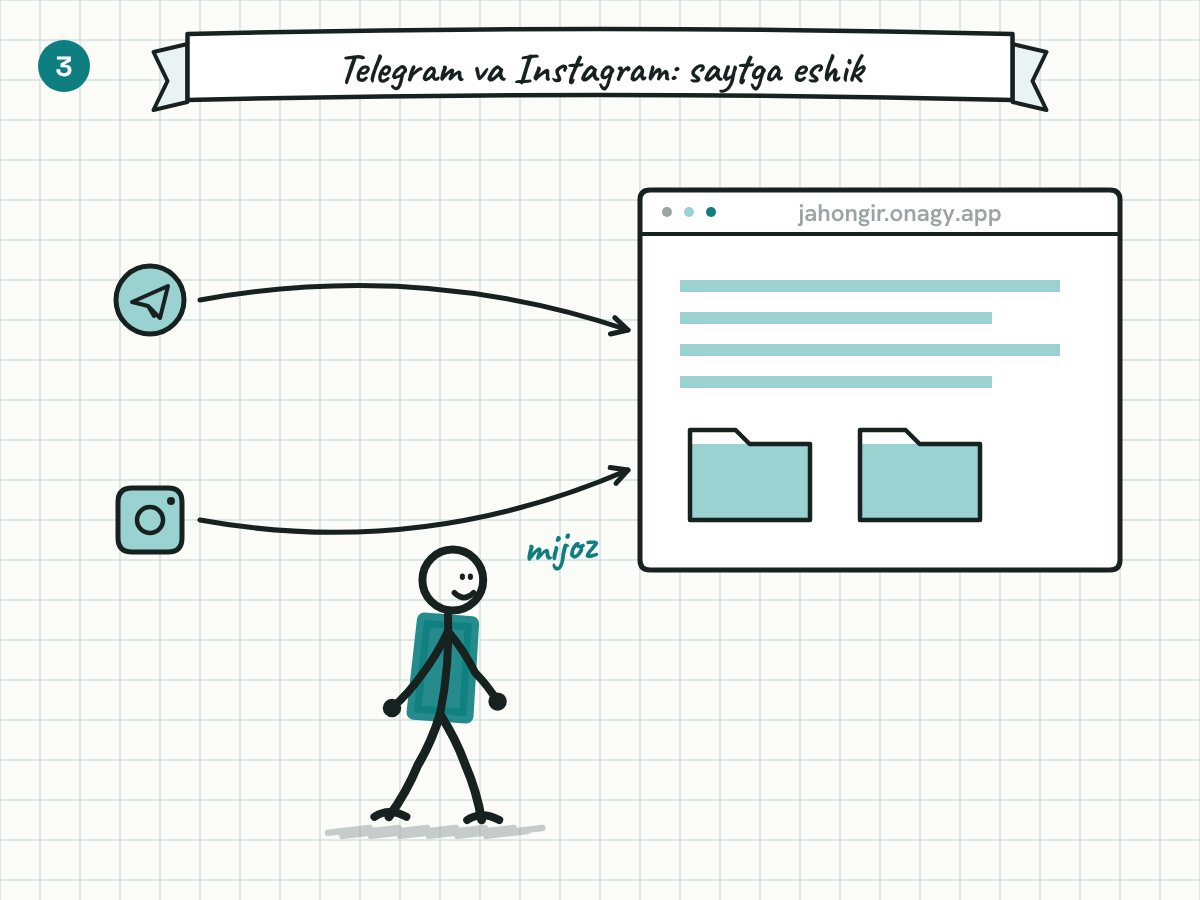
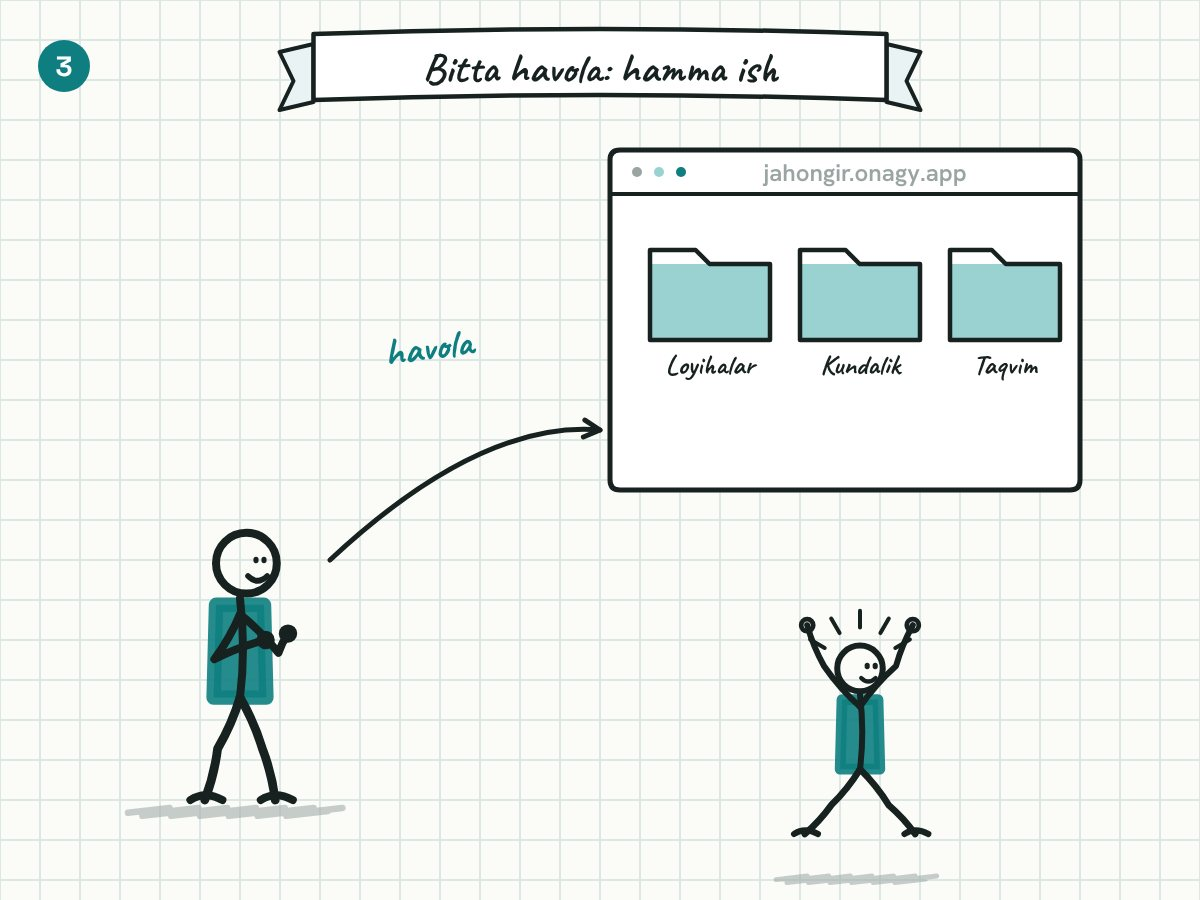
Yangi 2- va 3-post (vaqt tejash; nega har kuni yozish va sayt), storyboard'lar; faqat postlarni ko'rsatuvchi preview vositasi
Claude-Session: https://claude.ai/code/session_016nT1brftc5kLuVNmAVZKjZ

diff --git a/tools/preview_posts.py b/tools/preview_posts.py
@@ -1,0 +1,76 @@
+# Faqat tanlangan postlarni (saytsiz) ko'rsatadigan bitta HTML: storyboard chizilib chiqadi, matn va taklif.
+# Foydalanish: python3 tools/preview_posts.py <chiqish.html> <post_id> [post_id ...]
+import json, os, sys, html, re
+sys.path.insert(0, os.path.dirname(os.path.abspath(__file__)))
+from uztypo import typo, typo_markup
+from urllib.parse import quote
+R = os.path.join(os.path.dirname(os.path.abspath(__file__)), "..")
+E = lambda s: html.escape(typo(s))
+site = json.load(open(os.path.join(R, "content/site.json")))
+projs = {p["slug"]: p for p in json.load(open(os.path.join(R, "content/projects/projects.json")))}
+OY = ["yanvar","fevral","mart","aprel","may","iyun","iyul","avgust","sentabr","oktabr","noyabr","dekabr"]
+def svg(k):
+    p = os.path.join(R, "content", k["svg"]); s = open(p).read()
+    return re.sub(r"<svg ", '<svg role="img" aria-label="%s" ' % E(k.get("izoh", "")), s, count=1)
+cards = []
+for pid in sys.argv[2:]:
+    p = json.load(open(os.path.join(R, "content/posts", pid + ".json"))); K = p["storyboard"]["kadrlar"]
+    y, m, d = p["sana"].split("-"); pr = projs[p["loyiha"]]
+    cta = f'https://t.me/{site["telegram"]}?text={quote(typo(p["taklif"]["xabar"]))}'
+    frames = "".join(f'<div class="pl-f{" on" if i == 0 else ""}" data-cap="{E(k.get("izoh",""))}">{svg(k)}</div>' for i, k in enumerate(K))
+    dots = "".join(f'<button type="button" aria-label="{i+1}-kadr"{" class=on" if i == 0 else ""}></button>' for i in range(len(K)))
+    cards.append(f'''<article class="post">
+  <p class="meta">{int(d)}-{OY[int(m)-1]}, {y} · {E(pr["nom"])} · {E(p.get("tur",""))}</p>
+  <h2>{E(p["sarlavha"])}</h2>
+  <div class="player"><div class="stage">{frames}</div>
+    <div class="bar"><span class="dots">{dots}</span><span class="cap">{E(K[0].get("izoh",""))}</span><button type="button" class="re" aria-label="Qayta ko‘rish">↻</button></div></div>
+  <div class="blocks"><section><h3>Muammo</h3><p>{E(p["muammo"])}</p></section><section><h3>Yechim</h3><p>{E(p["yechim"])}</p></section><section><h3>Natija</h3><p>{E(p["natija"])}</p></section></div>
+  <a class="cta" href="{html.escape(cta)}" target="_blank" rel="noopener">{E(p["taklif"]["tugma"])} →</a>
+</article>''')
+page = f'''<title>Shaxsiy blog postlari</title>
+<meta name="claude:viewport-fit-sides" content="cover">
+<link rel="stylesheet" href="https://fonts.googleapis.com/css2?family=Space+Grotesk:wght@500;700&family=Hanken+Grotesk:wght@400;500;600&family=Caveat:wght@700&display=swap">
+<style>
+/* Layout: bitta ustun, har post qog'oz varag'i; storyboard katak qog'oz bo'lib qoladi (ikkala mavzuda ham) */
+:root{{--bg:#E9EFEE;--sheet:#FFFFFF;--ink:#17211F;--soft:#55605E;--deep:#0A4E50;--primary:#0E7E80;--line:#C9DCDC;--dot:#16A6A9;
+--display:"Space Grotesk",system-ui,sans-serif;--body:"Hanken Grotesk",system-ui,sans-serif;--hand:"Caveat","Comic Sans MS",cursive}}
+@media (prefers-color-scheme: dark){{:root:not([data-theme="light"]){{--bg:#0B1F20;--sheet:#13292A;--ink:#E7F1F0;--soft:#A9BDBB;--deep:#9AD2D2;--primary:#5FC2C3;--line:#2A4647;color-scheme:dark}}}}
+:root[data-theme="dark"]{{--bg:#0B1F20;--sheet:#13292A;--ink:#E7F1F0;--soft:#A9BDBB;--deep:#9AD2D2;--primary:#5FC2C3;--line:#2A4647;color-scheme:dark}}
+body{{background:var(--bg);color:var(--ink);font:16px/1.6 var(--body);padding-left:max(16px,env(safe-area-inset-left,0px));padding-right:max(16px,env(safe-area-inset-right,0px));padding-block:28px 56px}}
+.wrap{{max-width:760px;margin:0 auto;display:flex;flex-direction:column;gap:36px}}
+.head h1{{font:700 clamp(26px,5vw,36px)/1.1 var(--display);margin:0 0 6px;color:var(--deep);text-wrap:balance}}
+.head p{{margin:0;color:var(--soft);max-width:62ch}}
+.post{{background:var(--sheet);border-radius:8px;padding:clamp(18px,4vw,34px);box-shadow:0 1px 2px rgba(10,59,60,.08),0 24px 50px -30px rgba(8,69,70,.45);display:flex;flex-direction:column;gap:16px;min-width:0}}
+.meta{{margin:0;font-size:13px;font-weight:600;letter-spacing:.04em;color:var(--primary)}}
+.post h2{{margin:0;font:700 clamp(21px,3.6vw,28px)/1.18 var(--display);text-wrap:balance}}
+.stage{{position:relative;aspect-ratio:4/3;max-width:100%;border:1.6px solid #1E3A39;border-radius:8px;overflow:hidden;background:#FBFBF8}}
+.pl-f{{position:absolute;inset:0;opacity:0;transition:opacity .45s ease}}.pl-f.on{{opacity:1}}
+.pl-f svg{{display:block;width:100%;height:100%}}
+.bar{{display:flex;align-items:center;gap:12px;margin-top:10px}}
+.dots{{display:flex;gap:6px}}.dots button{{width:9px;height:9px;padding:0;border:0;border-radius:5px;background:var(--line);cursor:pointer;transition:width .3s,background .3s}}
+.dots button.on{{width:24px;background:var(--primary)}}
+.cap{{flex:1;min-width:0;font:700 22px/1.1 var(--hand);color:var(--deep)}}
+.re{{width:34px;height:34px;border-radius:50%;border:1.6px solid var(--line);background:transparent;color:var(--ink);font-size:17px;cursor:pointer}}
+button:focus-visible,.cta:focus-visible{{outline:2px solid var(--dot);outline-offset:2px}}
+.blocks{{display:grid;gap:14px}}
+.blocks h3{{margin:0 0 2px;font:700 12px/1 var(--body);letter-spacing:.12em;text-transform:uppercase;color:var(--primary)}}
+.blocks p{{margin:0;max-width:65ch}}
+.cta{{align-self:flex-start;display:inline-flex;padding:13px 22px;border-radius:999px;background:var(--deep);color:var(--sheet);font:700 16px var(--display);text-decoration:none}}
+@media (prefers-reduced-motion: reduce){{.pl-f{{transition:none}}}}
+</style>
+<div class="wrap">
+  <header class="head"><h1>{E(projs[json.load(open(os.path.join(R,"content/posts",sys.argv[2]+".json")))["loyiha"]]["nom"])}: 3 ta post</h1>
+  <p>{E("Saytdagi ko'rinishi: storyboard ko'z oldida chiziladi, keyin keyingi kadrga o'tadi. Kadr nuqtalarini bosib almashtirish yoki ↻ bilan qayta ko'rish mumkin.")}</p></header>
+  {"".join(cards)}
+</div>
+<script>
+(function(){{var reduce=matchMedia("(prefers-reduced-motion: reduce)").matches;
+document.querySelectorAll(".player").forEach(function(el){{var F=[].slice.call(el.querySelectorAll(".pl-f")),D=el.querySelectorAll(".dots button"),cap=el.querySelector(".cap"),i=0,t=0,vis=true;
+function len(f){{var s=f.querySelector("svg");return s?(parseFloat(s.getAttribute("data-len"))||3)*1000+1400:3000}}
+function show(n){{clearTimeout(t);F[i].classList.remove("on");D[i].classList.remove("on");i=n;var f=F[i];f.classList.add("on");D[i].classList.add("on");cap.textContent=f.getAttribute("data-cap");
+var s=f.querySelector("svg");if(s&&!reduce){{var c=s.cloneNode(true);s.parentNode.replaceChild(c,s)}}if(reduce)return;t=setTimeout(function next(){{if(vis)show((i+1)%F.length);else t=setTimeout(next,800)}},len(f))}}
+D.forEach(function(b,n){{b.addEventListener("click",function(){{show(n)}})}});el.querySelector(".re").addEventListener("click",function(){{show(i)}});
+if(window.IntersectionObserver)new IntersectionObserver(function(es){{vis=es[0].isIntersecting}},{{threshold:.3}}).observe(el);show(0)}})}})();
+</script>'''
+open(sys.argv[1], "w").write(typo_markup(page))
+print("ok", len(page) // 1024, "KB")

diff --git a/tools/storyboard/avto_story.py b/tools/storyboard/avto_story.py
@@ -34,57 +34,53 @@ f.person(950, 830, "cheer", 1.5)
 f.text(270, 700, "har 3 soatda", 44, TEAL, rot=-4); f.text(270, 750, "o'zi chiqadi", 44, TEAL, rot=-4)
 F["avto-1"].append(f)
 
-# ---- 2-post: Instagram story'da havola bosilmaydi
-f = Frame("Havola bosilmaydi", 1)
-def scr2(x, y, w, h):
-    f.fill(f"M{x + 14} {y + 30} h{w - 28} v{h - 60} h{-(w - 28)} z", SOFT, 0.5)
-    f.pill(x + 22, y + h / 2 - 20, w - 44, 44, "havola", size=22)
-    f.line(f"M{x + 30} {y + h / 2 - 34} l{w - 60} 70 M{x + w - 30} {y + h / 2 - 34} l{-(w - 60)} 70", w=6, color="#C0392B")
-f.phone(330, 220, 1.6, scr2)
-f.person(820, 800, "think", 1.7, face="flat")
-f.text(820, 330, "qanday o'qiyman?", 44, rot=-4)
+# ---- 2-post: qancha vaqt tejaydi
+f = Frame("Har kuni: 4 joy, 4 xil o'lcham", 1)
+f.person(250, 800, "slump", 1.7, face="sad")
+f.box(470, 190, 250, 160); f.text(595, 290, "sayt", 40, font="Space Grotesk")
+f.box(760, 190, 300, 120); f.text(910, 262, "kanal", 40, font="Space Grotesk")
+f.box(470, 400, 210, 210); f.text(575, 515, "Instagram", 34, font="Space Grotesk")
+f.box(730, 360, 140, 250); f.text(800, 495, "story", 32, font="Space Grotesk")
+f.box(900, 360, 140, 250); f.text(970, 495, "story", 32, font="Space Grotesk")
+f.clock(1000, 720, 56); f.text(780, 740, "yana qo'lda...", 46, rot=-4)
 F["avto-2"] = [f]
-f = Frame("«AI» deb yozadi", 2)
-def scr3(x, y, w, h):
-    f.fill(f"M{x + 14} {y + 30} h{w - 28} v{h - 60} h{-(w - 28)} z", SOFT, 0.5)
-    f.box(x + 16, y + h - 74, w - 32, 46); f.text(x + w / 2, y + h - 40, "AI", 34, INK, font="Space Grotesk")
-f.phone(640, 200, 1.6, scr3)
-f.person(400, 800, "phone", 1.75)
-f.bubble(150, 210, 260, 120, "«AI»", tail=(40, 30), size=56)
-f.arrow("M420 360 Q560 480 650 520", head=(650, 520, 30))
+f = Frame("Siz faqat aytib berasiz", 2)
+f.person(260, 800, "point", 1.7)
+f.bubble(110, 230, 330, 130, "bugun shuni\nhal qildik", tail=(40, 30), size=40)
+f.arrow("M470 520 Q560 520 620 470", head=(620, 470, -30))
+f.browser(640, 190, 240, 170, "sayt"); f.lines(665, 260, 190, 3, 24)
+f.box(910, 190, 180, 120); f.text(1000, 262, "kanal", 34, font="Space Grotesk")
+f.box(650, 420, 170, 250); f.text(735, 555, "story", 32, font="Space Grotesk")
+f.box(850, 420, 240, 240); f.text(970, 550, "post", 36, font="Space Grotesk")
+f.text(870, 760, "hammasi o'zi tayyor", 48, TEAL, rot=-3)
 F["avto-2"].append(f)
-f = Frame("Havola Direct'ga keladi", 3)
-def scr4(x, y, w, h):
-    f.box(x + 16, y + 40, w - 60, 56, "#E9F3F3"); f.text(x + 34, y + 76, "Mana maqola:", 22, INK, anchor="start")
-    f.pill(x + 16, y + 110, w - 50, 40, "jahongir.onagy.app", fill="#fff", color=TEAL, size=15)
-f.phone(250, 210, 1.6, scr4)
-f.person(560, 800, "phone", 1.6)
-f.box(780, 230, 330, 150, "#fff", rot=3); f.text(945, 290, "Yangi mijoz!", 40, TEAL, rot=3); f.text(945, 340, "Direct'da gaplashyapti", 30, INK, rot=3)
-f.person(960, 820, "cheer", 1.3)
+f = Frame("Bo'shagan vaqt mijozlarga", 3)
+f.person(380, 800, "point", 1.7)
+f.person(760, 800, "stand", 1.7, flip=True)
+f.bubble(620, 240, 300, 120, "kelishdik!", tail=(-30, 30), size=48)
+f.clock(170, 300, 64); f.text(170, 420, "vaqt bor", 42, TEAL, rot=-4)
+f.text(1000, 700, "+1 mijoz", 54, TEAL, rot=-6)
 F["avto-2"].append(f)
 
-# ---- 3-post: nega sayt kerak
-f = Frame("Postlar lentada ko'milib ketadi", 1)
-for i in range(6):
-    f.box(640 + (i % 2) * 40, 150 + i * 120, 330, 96, "#fff" if i % 2 else "#EEF5F5", rot=(-4 if i % 2 else 3))
-    f.lines(670 + (i % 2) * 40, 180 + i * 120, 230, 2, 26)
-f.arrow("M1080 200 V780", w=6, head=(1080, 780, 90))
-f.person(360, 800, "run", 1.7, face="open")
-f.text(360, 380, "qayerda edi?", 48, rot=-5)
+# ---- 3-post: nega har kuni yozish va sayt kerak
+f = Frame("Ish bor, lekin ko'rgan yo'q", 1)
+f.person(260, 800, "press", 1.7)
+f.browser(380, 300, 300, 220, "ish"); f.text(530, 420, "✓ ✓ ✓", 50, TEAL, font="Space Grotesk")
+f.line("M760 180 V860", w=6, color=GREY)
+f.person(960, 800, "think", 1.7, flip=True, face="flat")
+f.text(960, 330, "kim bu?", 48, rot=4)
 F["avto-3"] = [f]
-f = Frame("Sayt: ishlaringiz uyi", 2)
-f.browser(470, 170, 640, 470)
-for i in range(4): f.story_ring(540 + i * 80, 260, 26)
-f.folder(520, 350, 150, 110, "Loyihalar"); f.folder(720, 350, 150, 110, "Kundalik"); f.folder(920, 350, 150, 110, "Taqvim")
-f.person(260, 800, "point", 1.75)
-f.text(790, 720, "hammasi bitta havolada", 46, TEAL, rot=-3)
+f = Frame("Har kuni bitta yozuv", 2)
+f.calendar(520, 180, 520, 430, marks=(4, 5, 7, 13, 14, 16, 17, 18))
+f.person(300, 800, "phone", 1.7)
+f.text(780, 700, "+1 har kuni", 56, TEAL, rot=-4)
 F["avto-3"].append(f)
-f = Frame("Telegram va Instagram: saytga eshik", 3)
-f.browser(640, 190, 480, 380); f.lines(680, 280, 380, 4, 32); f.folder(690, 430, 120, 90, ""); f.folder(860, 430, 120, 90, "")
-f.tg(150, 300); f.ig(150, 520)
-f.arrow("M200 300 Q420 260 628 330", head=(628, 330, 15)); f.arrow("M200 520 Q420 560 628 470", head=(628, 470, -20))
-f.person(440, 820, "walk", 1.6)
-f.text(560, 560, "mijoz", 44, TEAL, rot=-4)
+f = Frame("Bitta havola: hamma ish", 3)
+f.person(240, 800, "phone", 1.6)
+f.arrow("M330 560 Q480 420 600 430", head=(600, 430, 5))
+f.browser(610, 150, 470, 340); f.folder(650, 250, 120, 90, "Loyihalar"); f.folder(800, 250, 120, 90, "Kundalik"); f.folder(950, 250, 110, 90, "Taqvim")
+f.person(860, 870, "cheer", 1.2)
+f.text(430, 360, "havola", 40, TEAL, rot=-8)
 F["avto-3"].append(f)
 
 for k, frames in F.items():

diff --git a/tools/storyboard/doodle.py b/tools/storyboard/doodle.py
@@ -178,6 +178,16 @@ class Frame:
         self.line(f"M{x} {y + h} V{y} h{w * 0.38} l14 14 H{x + w} V{y + h} Z", w=4.5, dur=0.3)
         self.text(x + w / 2, y + h + 34, label, size=28)
 
+    def calendar(self, x, y, w, h, marks=(), title="Oktabr"):
+        self.fill(f"M{x} {y} h{w} v{h} h{-w} z", "#fff")
+        self.line(f"M{x + 10} {y} h{w - 20} q10 0 10 10 v{h - 20} q0 10 -10 10 h{-(w - 20)} q-10 0 -10 -10 v{-(h - 20)} q0 -10 10 -10z", w=5, dur=0.4)
+        self.fill(f"M{x} {y} h{w} v54 h{-w} z", DEEP); self.text(x + w / 2, y + 38, title, 32, "#fff", font="Space Grotesk")
+        cw, ch = (w - 40) / 5, (h - 84) / 4
+        for i in range(20):
+            cx, cy = x + 20 + (i % 5) * cw, y + 70 + (i // 5) * ch
+            self.line(f"M{cx + 6} {cy + 6} h{cw - 12} v{ch - 12} h{-(cw - 12)} z", w=3, color=SOFT, dur=0.06)
+            if i in marks: self.fill(f"M{cx + cw / 2 - 11} {cy + ch / 2} a11 11 0 1 0 22 0 a11 11 0 1 0 -22 0", TEAL)
+
     # --- yig'ish -------------------------------------------------------
     def svg(self):
         grid = "".join(f'<path d="M{i} 0V{H}" />' for i in range(0, W + 1, 40)) + "".join(f'<path d="M0 {j}H{W}" />' for j in range(0, H + 1, 40))
